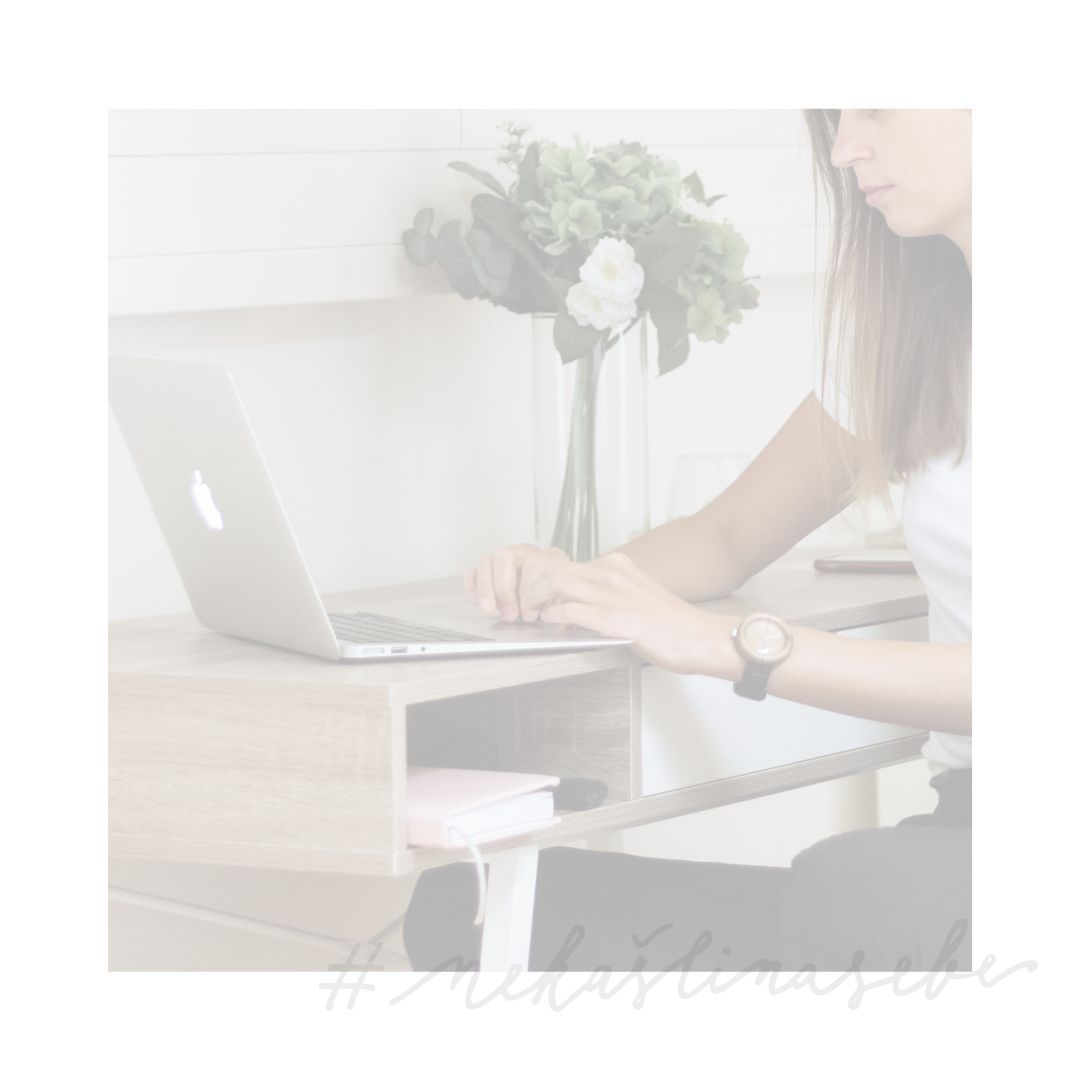
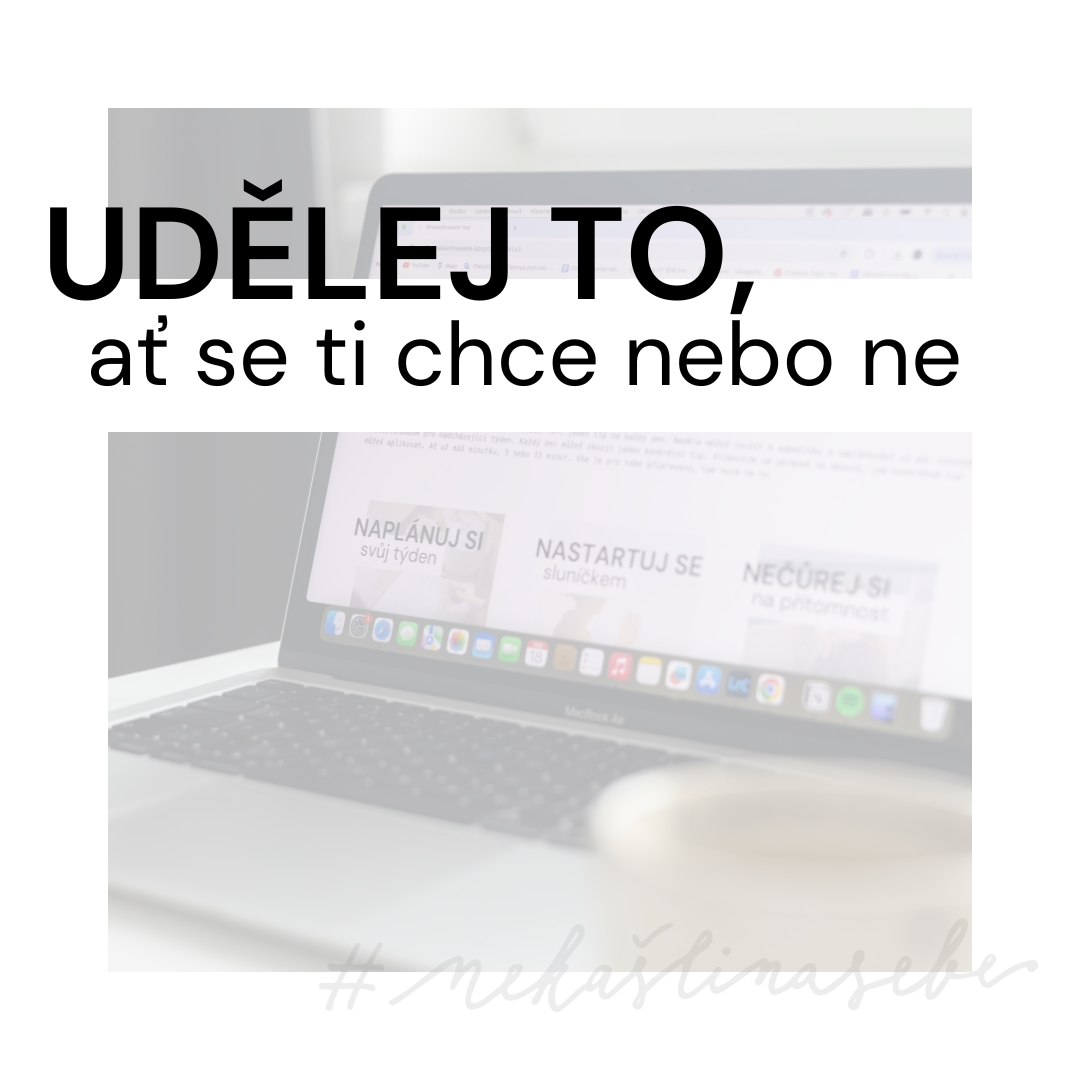
tip3

diff --git a/tips/25-23/tip3.html b/tips/25-23/tip3.html
@@ -79,8 +79,8 @@
       <div class="container">
         <div class="row mb-8 align-items-center">
           <div class="col-md-8,9" data-aos="fade-up">
-            <h2>3.tip #nekaslinasebe</h2>
-            <p>Tip tady ještě není. </p>
+            <h2>2.tip #nekaslinasebe</h2>
+            <p><b>Motivace.</b> Problém dnešní doby? Dnešní svět nám ukazuje ideálního nadčlověka, který dělá, co chce, našel smysl svého života a je vždy motivován. K tomu ještě dobře vypadá, každý den cvičí a pracuje online z pláže. Je tomu opravdu tak? Co když se dostaneme do bodu, kdy neděláme něco, co nám dlouhodobě prospívá? Co když se nám v daný moment vůbec nechce? <b>V motivaci se na emoce a myšlenky nespoléhejme. Až přijde motivace nefunguje. </b> Na terapiích slýchávám: Počkám, až na to budu mít chuť. Až se mi bude chtít. Vím, že by mi třeba procházka náladu zlepšila. Když mě to nebaví. <b>Musí mě to bavit ještě předtím, než začnu. NEMUSÍ!</b> Čekáme a čekáme na motivaci. Vítejme v začarovaném kruhu, kdy motivace ne a ne přijít. Říkám si, <b>kde jsme vzali představu, že když nám chybí motivace, tak bychom věci neměli dělat?</b> Obzvlášť, když máme špatnou náladu, prožíváme úzkosti nebo jsme skleslí a naštvaní? <b>Nečekejme až budeme mít na věci chuť. Často se nám zalíbí teprve až se do nich pustíme. </b>Motivace přijde vprůběhu činnost. </p>
           </div>
         </div>
       </div>
@@ -89,7 +89,7 @@
         <div class="container">
           <div class="row align-items-stretch">
             <div class="col-md-8" data-aos="fade-up">
-              <img src="/assets/img/_template/img_3_big.jpg" alt="Image" class="img-fluid">
+              <img src="/assets/img/24-25/img_2_big.jpg" alt="Image" class="img-fluid">
             </div>
             <div class="col-md-4 ml-auto mb-5" data-aos="fade-up" data-aos-delay="100">
               <div class="sticky-content">
@@ -97,24 +97,22 @@
                 <p class="mb-4"><span class="text-muted">Pokud máš:</span></p>
 
                 <div class="mb-5">
-                  <p><b>1 minutku</b>:</p>
-                  <p><b>5 minut</b>:</p>
-                  <p><b>15 minut</b>:</p>
+                  <p><b>1 minutku</b>: Vzpomeň si na situaci, kdy ses do něčeho <b>malinko donutil/a a poté sis vlastně řekl/a: To nebylo tak zlé. Já si … vlastně dost užil/a.</b> Až se ti dnes nebo v následujících dnech nebude do něčeho chtít, vzpomeň si přesně na tuto situaci a rovnou se do činnosti, které se máš tendenci vyhnout pusť. </p>
+                  <p><b>5 minut</b>: Následuj předchozí minutkový tip a víc si ho rozeber. <b>Co přesně se v situaci dělo? Proč se ti do činnosti nechtělo? Uvědom si své emoce, myšlenky a pocit nemotivovanost. Napiš si vše na papír.</b> Až se ti dnes nebo v následujících dnech nebude chtít do činnosti, přesto se do ní pusť. Po skončení si uvědom své emoce myšlenky a to, <b>jak se pocit nemotivovanost proměnil a v co se možná změnil.</b> Dva zápisy si porovnej a příště, až se ti nebude chtít, si je pročti.</p>
+                  <p><b>15 minut</b>: Pokračuj v předchozím tipu a <b>monitoruj několik situací, kdy se ti chce a naopak nechce</b>. Podívej se na to, co jim předchází. Monitoruj své pocity, myšlenky, spánek a své baterky (fyzickou, psychickou a sociální). Často to <b>není jedna věc, která nám “brání” činnost začít.</b> Často se jedná o souhru více tzv. modifikujících faktorů zároveň. Faktorů, které se na sebe postupně nabalují (emoce, myšlenky, nedostatek spánku, strava, nedostatek odpočinku atd) a jsou někdy tak velké, že nám brání udělat to, co by nám ve výsledku přineslo mnohem hezčí emoce a myšlenky, než vyhnutí se. </p>
                 </div>
               </div>
             </div>
           </div>
           <div class="col-md-12 ml-auto mt-3">
-            <p><b>PS:</b></p>
+            <p><b>PS:</b> Pojďme najít balanc, kdy je dobré a výhodné se malinko do věcí donutit. Až nás příště napadne věta: <b>Když mě se nechce, rovnou to udělejme. Ano, buď to uděláme nebo ne. Snaha se nepočítá. </b> Snaha znamená pokoušet se a neudělat. Pokud něco neuděláme, musíme převzít zodpovědnost za svá rozhodnutí. Převezmi zodpovědnost. Rozhodni se, co uděláš nebo neuděláš příště až se (ne)budeš cítit….Tip upraven ze skvělé knížky Jak zklidnit bouři emocí.</p>
           </div>
           <div class="col-md-12 ml-auto mt-3">
             <p> Vše, co tu vidíš, děláme <b>zadarmo</b>. Kdybys nás chtěl/a podpořit, budeme rádi, když mrkneš na naše
               <b><a href="https://kpsychologovi.cz/shop/" target="_blank">nekaslinasebe produkty</a></b>, na <b><a
                   href="https://www.kurzyproradost.cz/kurz/jak-na-uzkosti-obavy-stres-a-emoce-353?pid=774708"
                   target="_blank">kurz o úzkostech</a></b> nebo <b><a
-                  href="https://skillmea.cz/online-kurzy/emocni-fitko-jak-na-emoce">kurz emočního fitka: jak na
-                  emoce</a></b>, který tě naučí efektivně pracovat s emocemi. Právě díky tomu budeme moct pokračovat v
-              poskytování
+                    href="https://skillmea.cz/online-kurzy/emocni-fitko-jak-na-emoce">kurz emočního fitka: jak na emoce</a></b>, který tě naučí efektivně pracovat s emocemi. Právě díky tomu budeme moct pokračovat v poskytování
               každodenních #nekaslinasebe tipů zdarma. Předem moc děkujeme.
             </p>
           </div>
